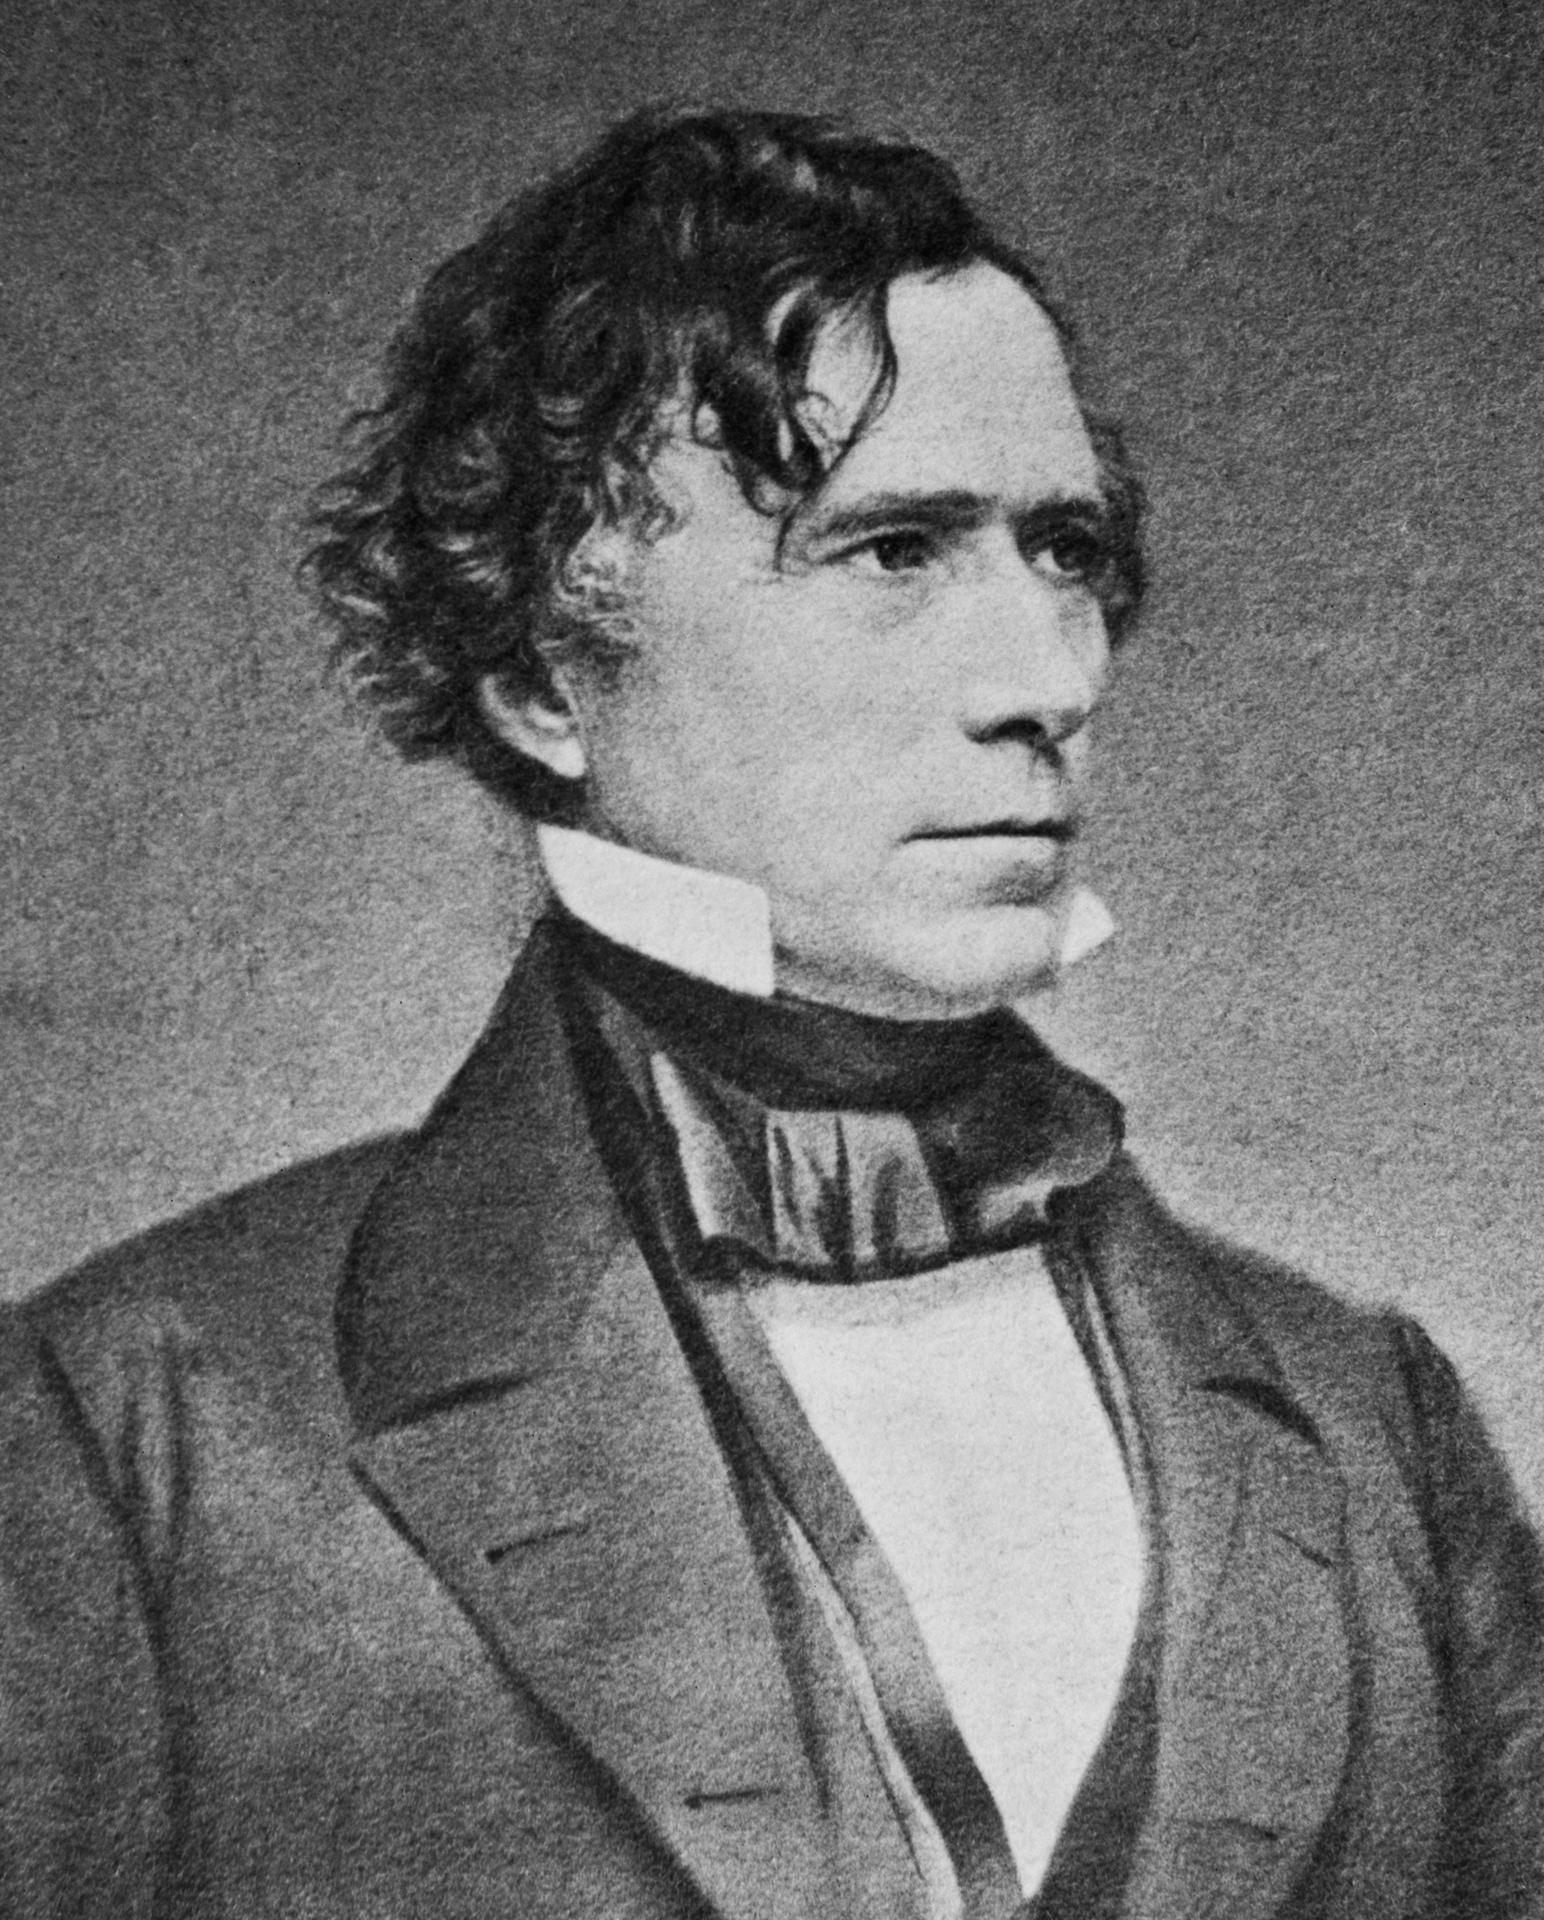
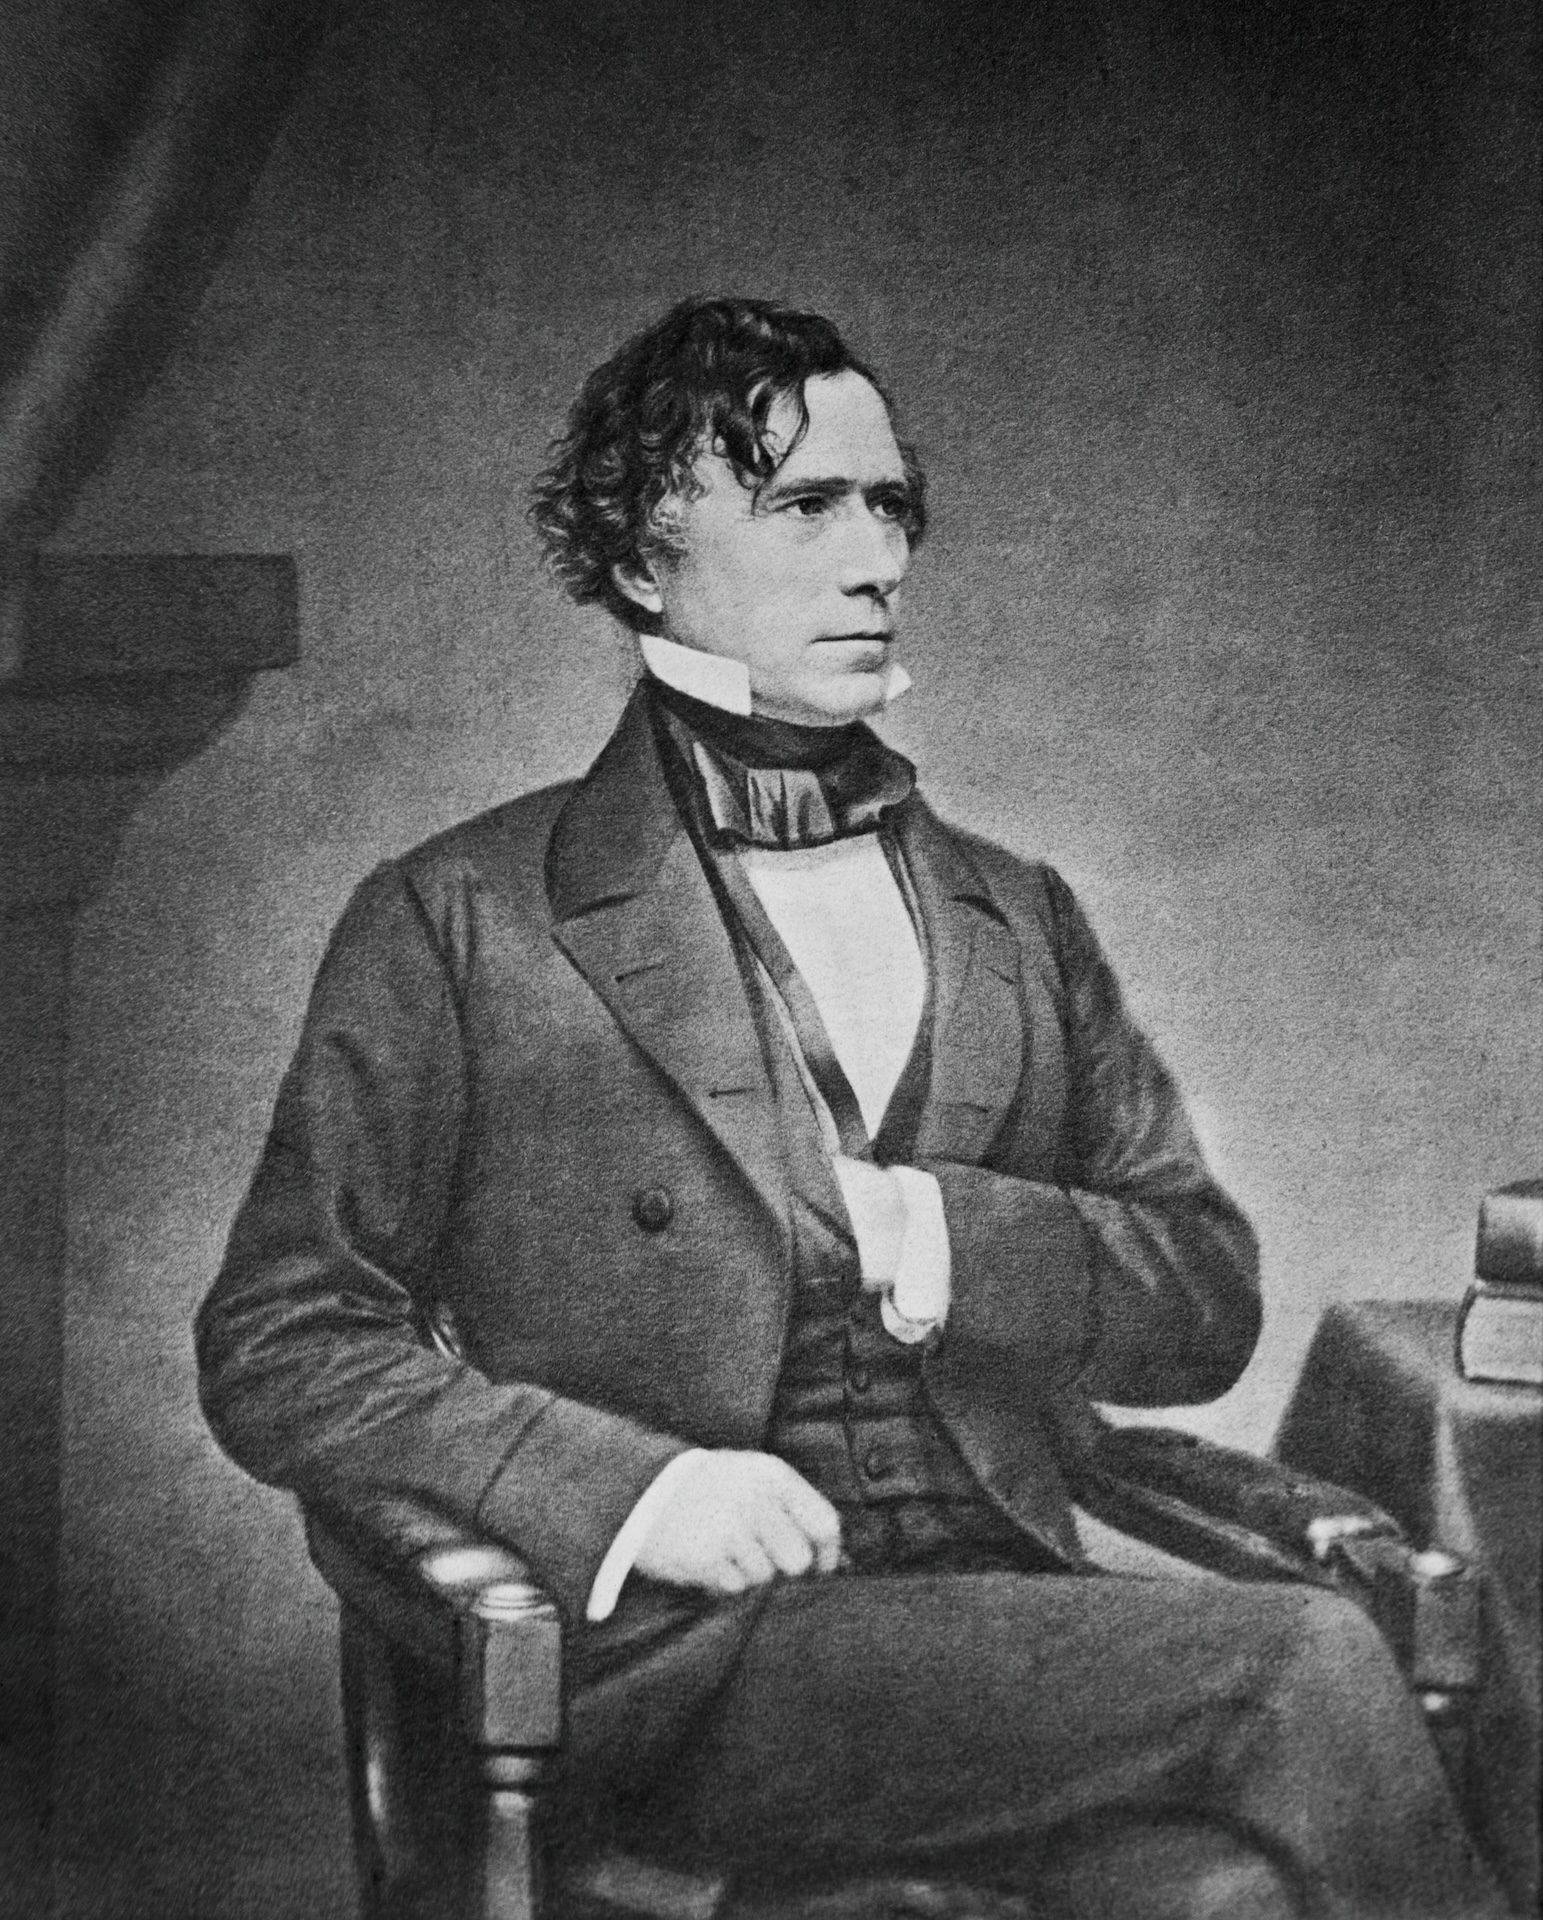
Franklin Pierce updates

diff --git a/README.md b/README.md
@@ -231,5 +231,6 @@ The per-block workflow above (research → present → pick → finalize, repeat
 | 11 | James K. Polk | ✅ Complete (3 portraits, gaps 1793-1837) |
 | 12 | Zachary Taylor | ✅ Complete (3 portraits, gap 1781-1841) |
 | 13 | Millard Fillmore | ✅ Complete (5 portraits, gaps 1797-1845 & 1865-1869 & 1873-1877) |
-| 14–47 | All others | ⏳ Single auto-generated placeholder each |
+| 14 | Franklin Pierce | ✅ Complete (4 portraits, gaps 1801-1845 & 1865-1869) |
+| 15–47 | All others | ⏳ Single auto-generated placeholder each |
 